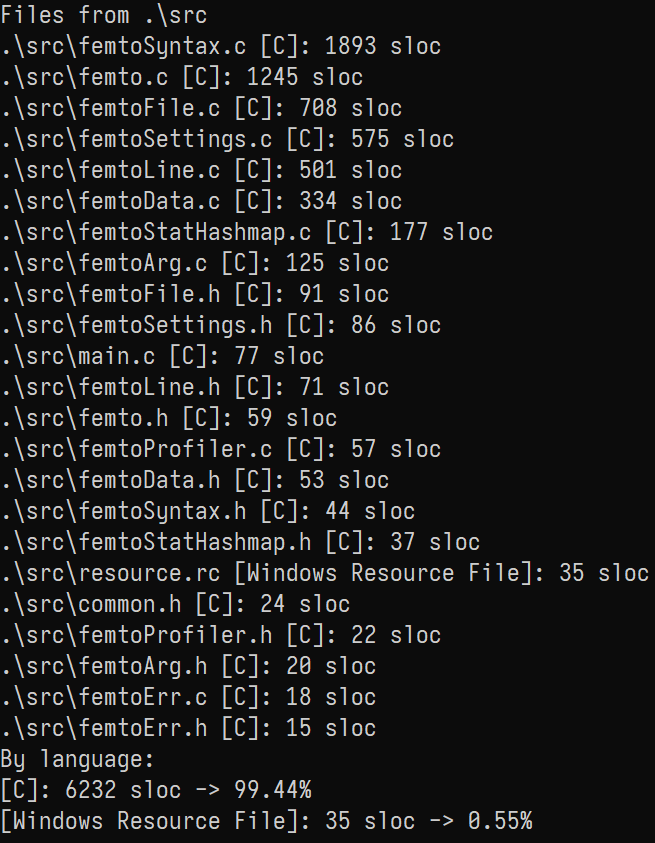
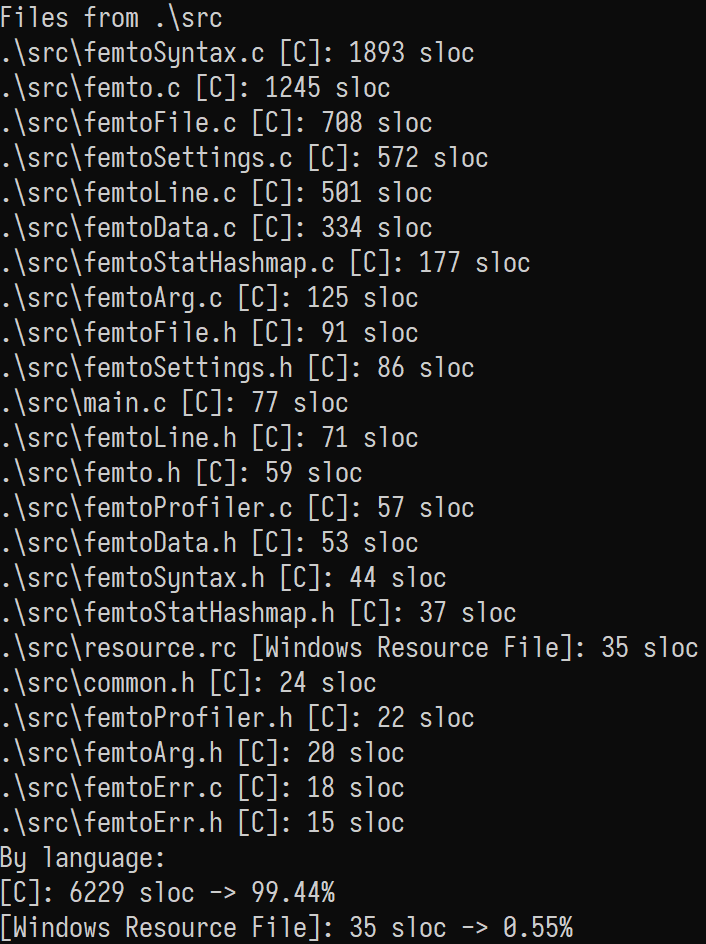
Update sloc

diff --git a/README.md b/README.md
@@ -13,7 +13,7 @@ It is also written in vanilla C & Win32 Console API - it's designed to be used s
 It has been compiled with MinGW GCC.
 
 Currently, my other tool [slocWin32](https://github.com/makuke1234/slocWin32)
-reports ~6200 source code lines (excluding whitespace, comments & [jsonlite2](https://github.com/makuke1234/jsonlite2) library):
+reports ~6300 source code lines (excluding whitespace, comments & [jsonlite2](https://github.com/makuke1234/jsonlite2) library):
 
 ![SLOC](./images/sloc.png)
 
